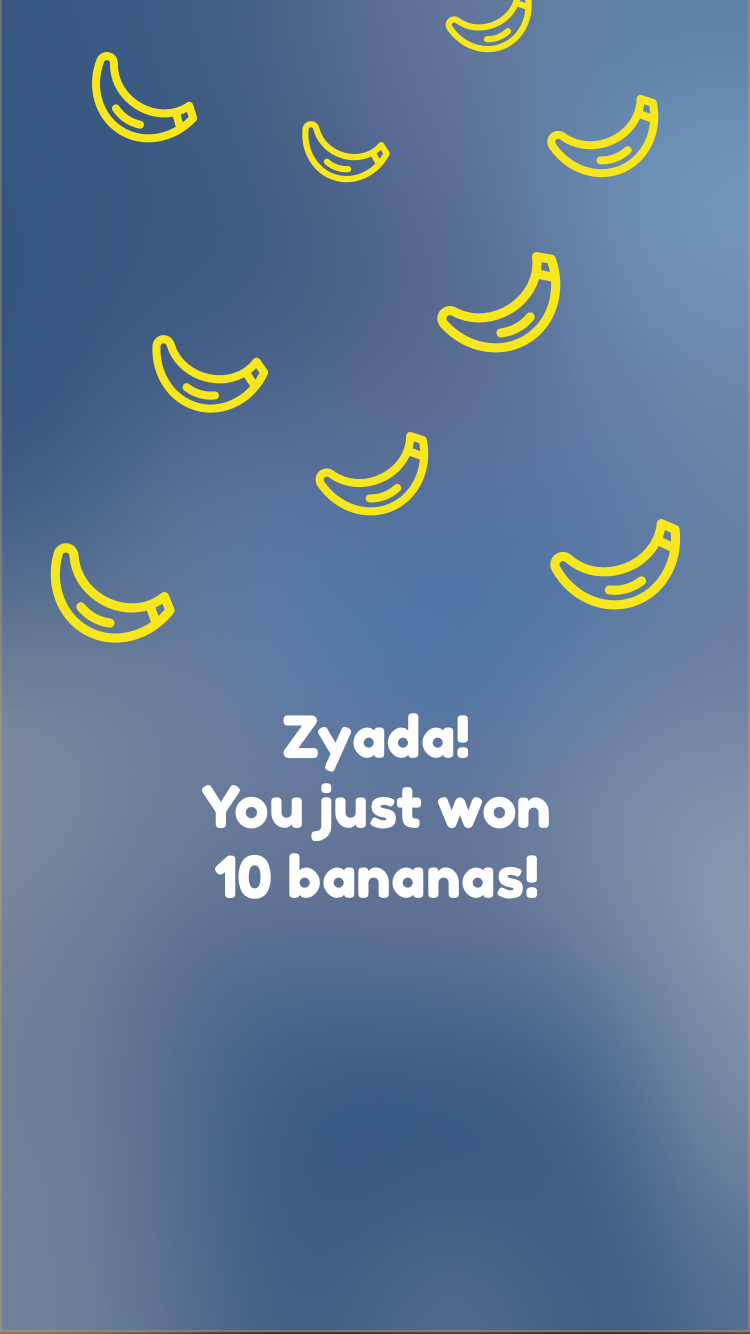
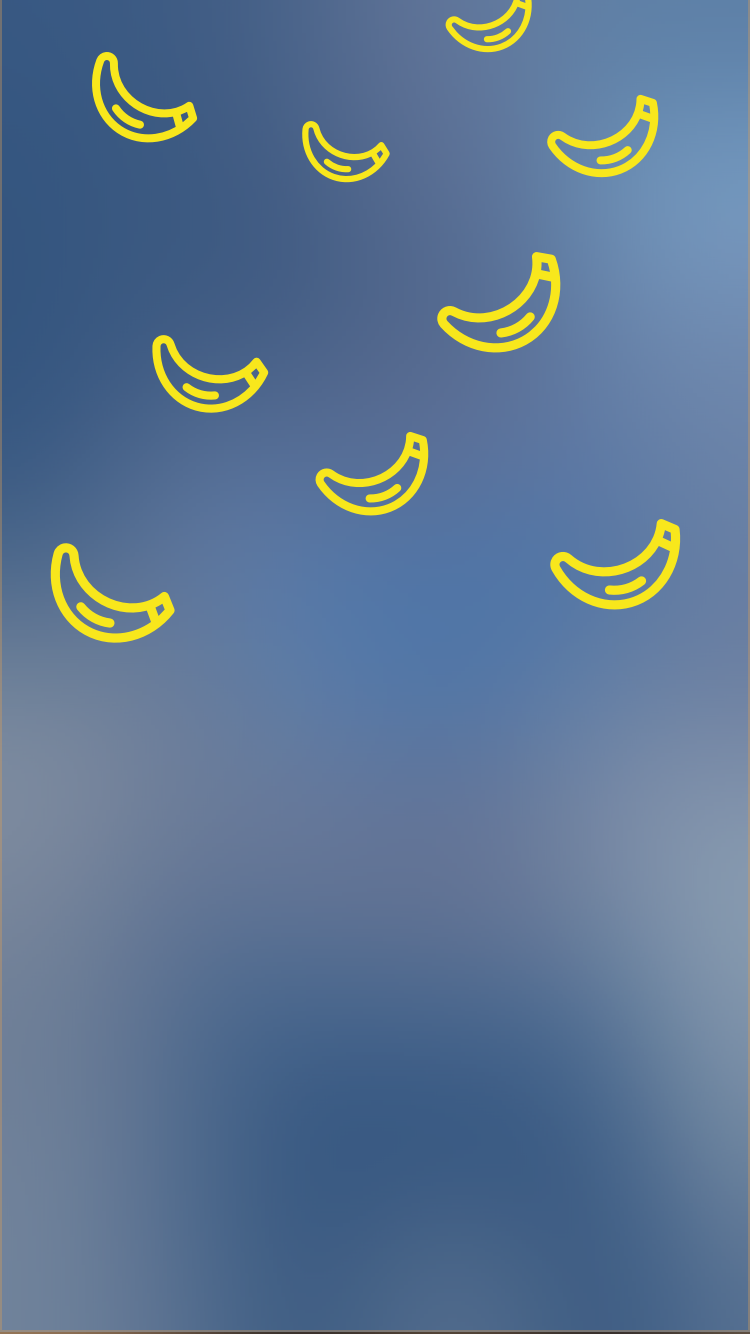
add winning screen

Changed region(s): [[0.276, 0.5225, 0.736, 0.6762]]

diff --git a/src/components/common/winBackground.js b/src/components/common/winBackground.js
@@ -1,6 +1,19 @@
 import React, { Component } from 'react';
-import { Image, Animated } from 'react-native';
+import { Image, Animated, View } from 'react-native';
 import { winScreen } from '../../images/images';
+import Text from '../common/text';
+
+const StyledText = ({ children }) => (
+    <Text
+        style={{
+            backgroundColor: 'transparent',
+            fontSize: 29,
+            textAlign: 'center',
+        }}>
+        {children}
+    </Text>
+);
+
 class WinBackground extends Component {
     // state = {
     //     banans: this._getBanans(),
@@ -28,10 +41,19 @@ class WinBackground extends Component {
                 style={{
                     flex: 1,
                     width: undefined,
-                    height: undefined
+                    height: undefined,
+                    alignSelf: 'stretch',
+                    alignItems: 'center',
+                    justifyContent: 'center',
                 }}
-                source={winScreen}
-            />
+                source={winScreen}>
+                <View style={{ marginTop: '40%' }}>
+                    <StyledText>Zyada!</StyledText>
+                    <StyledText>
+                        You just won {this.props.score} bananas!!
+                    </StyledText>
+                </View>
+            </Image>
         );
     }
 }

diff --git a/src/components/win/winContainer.js b/src/components/win/winContainer.js
@@ -1,0 +1,13 @@
+import React, { Component } from 'react';
+import { View } from 'react-native';
+import { connect } from 'react-redux';
+import Win from '../common/winBackground';
+class WinContainer extends Component {
+    render() {
+        return <Win score={this.props.score} />;
+    }
+}
+
+export default connect(({ unSeenImage }) => ({
+    score: unSeenImage.get('score'),
+}))(WinContainer);

diff --git a/storybook/stories/index.js b/storybook/stories/index.js
@@ -19,7 +19,7 @@ const highscore = List(
 storiesOf('Error background', module).add('with text', () => (
     <ErrorBackground style={{ color: 'black' }}>Hello Button</ErrorBackground>
 ));
-storiesOf('Win', module).add('Not clicked', () => <Win />);
+storiesOf('Win', module).add('Not clicked', () => <Win score={1337}/>);
 
 storiesOf('Signup step 2', module).add('Not clicked', () => (
     <Signup

diff --git a/src/components/common/errorBackground.js b/src/components/common/errorBackground.js
@@ -12,6 +12,7 @@ class RedBackground extends Component {
                     height: undefined,
                     justifyContent: 'center',
                     alignItems: 'center',
+                    alignSelf: 'stretch'
                 }}
                 source={errorScreen}
                 resizeMode="contain">
